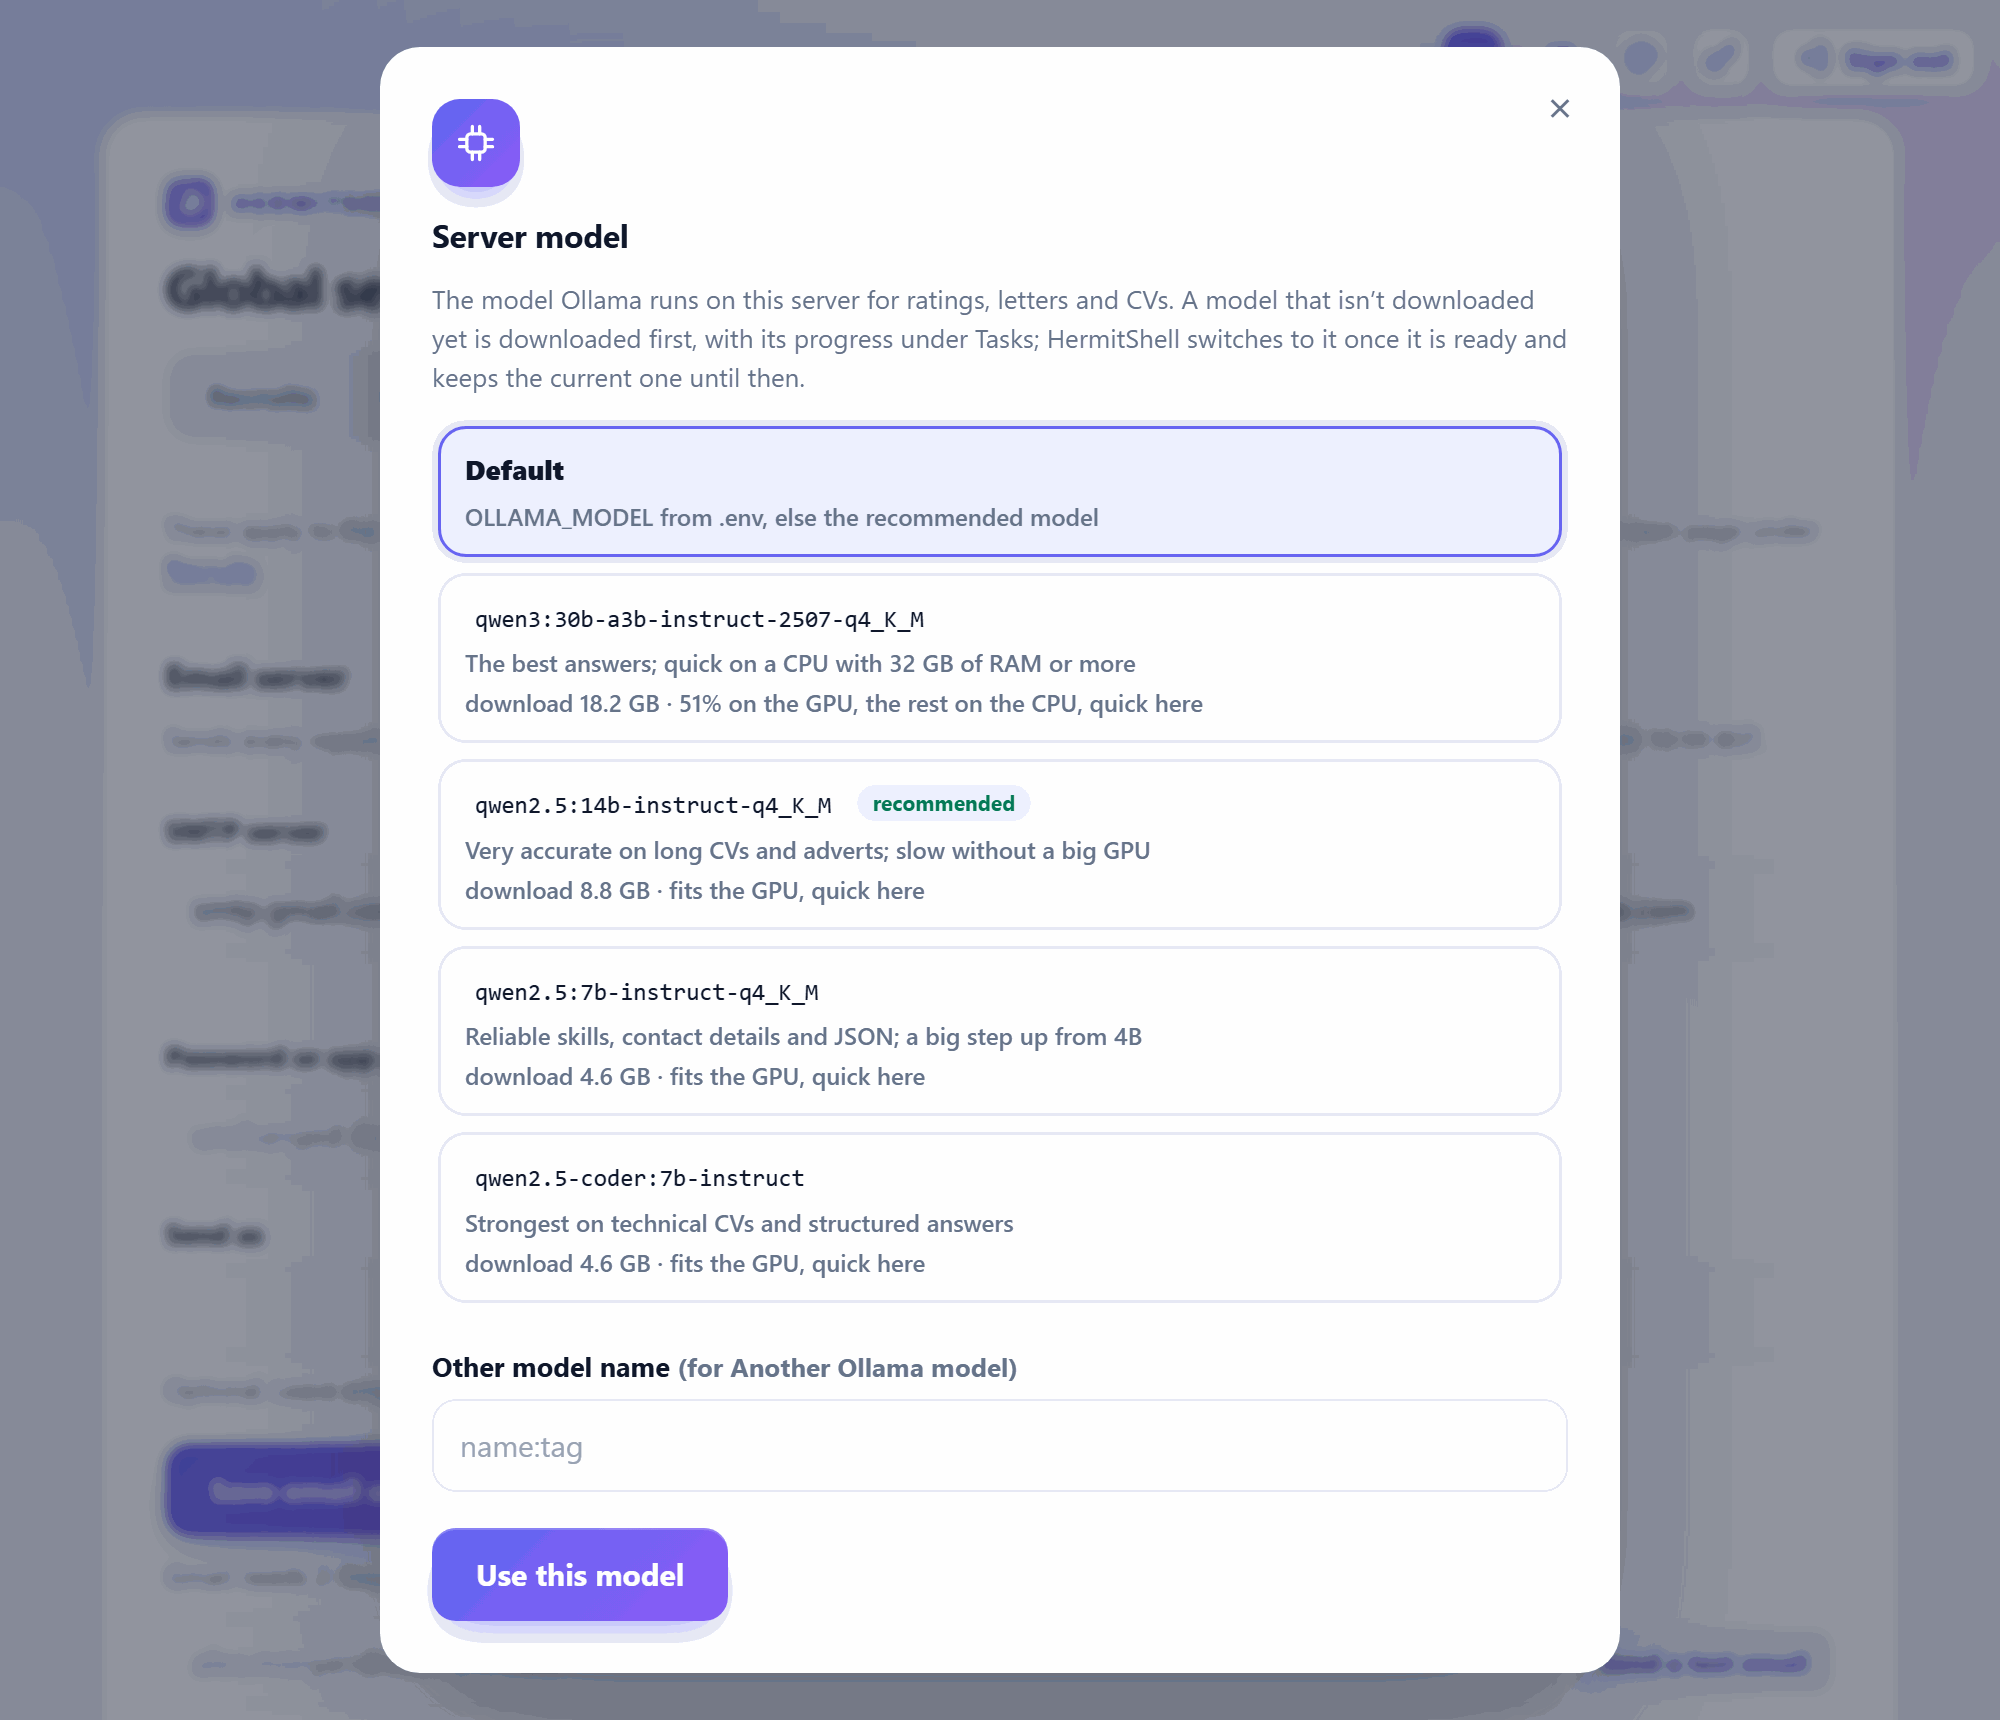
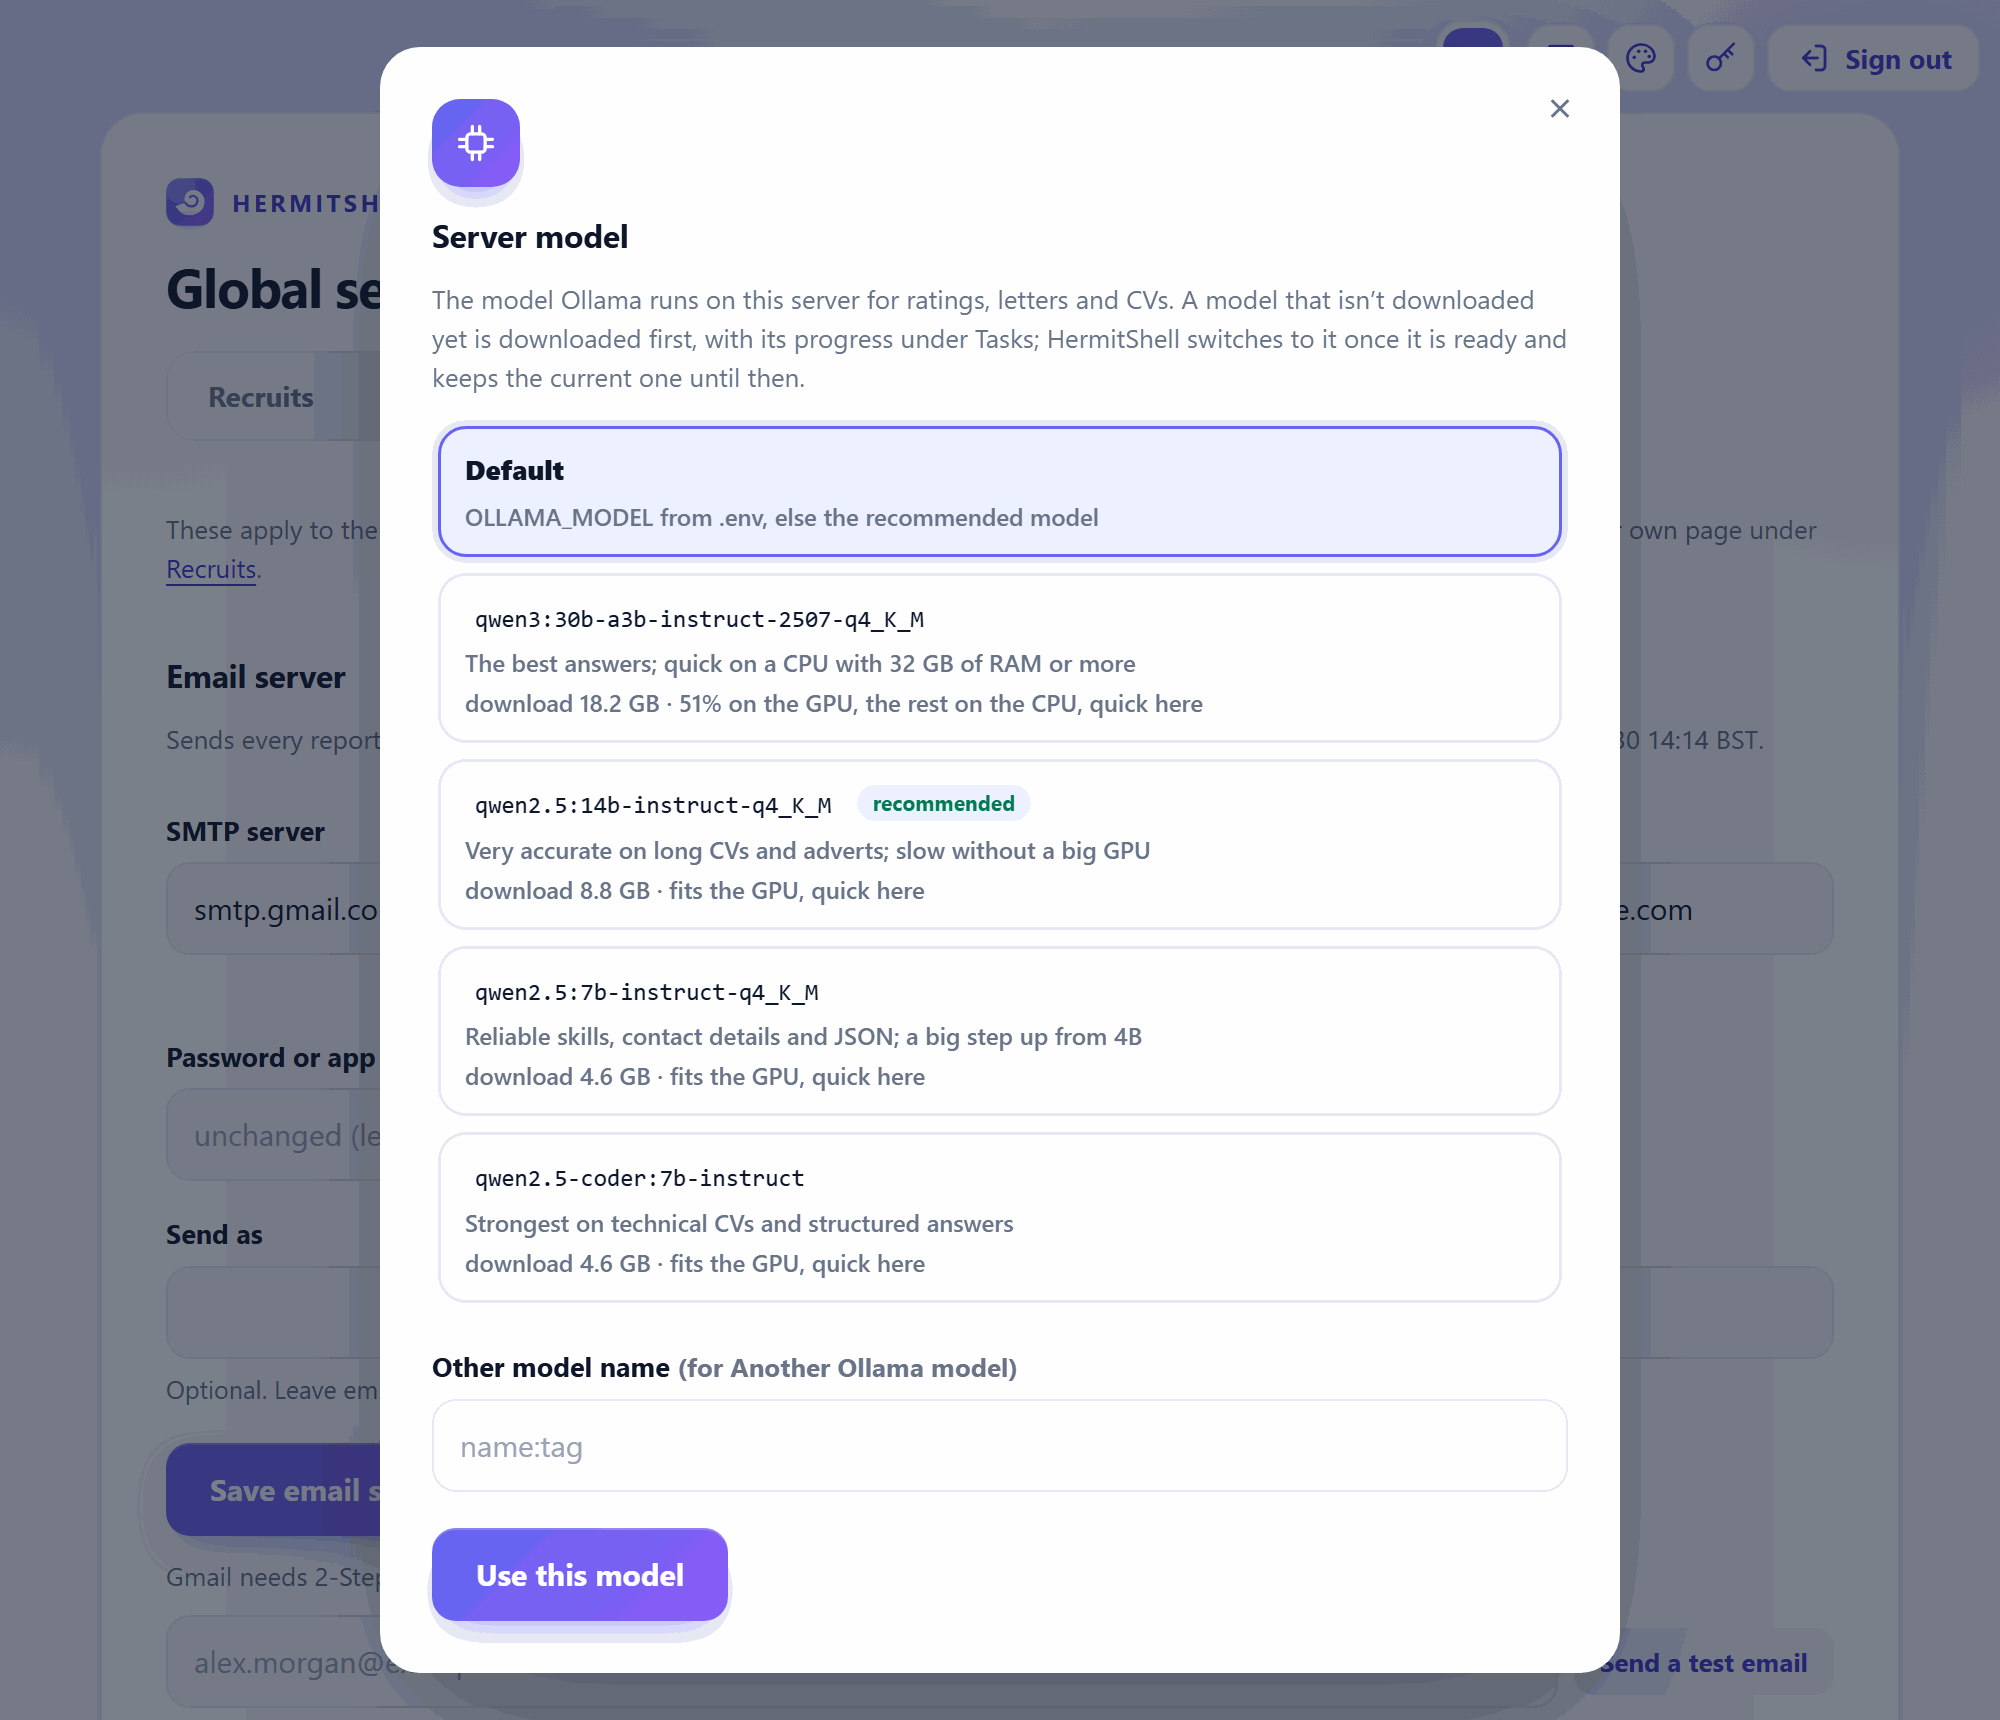
Keep the dashboard smooth while Tasks or any window is open
The window backdrop blurred the whole page and the browser redrew the blur on
every frame while the dashboard kept animating underneath, dropping it to about
26 fps with 80 ms stalls. The backdrop is now a plain darker tint, everything
behind an open window pauses its animations until it closes (the window's own
keep running), task bars shimmer by moving a layer instead of repainting their
gradient, and the spinners get their own layer. An open window now holds 60 fps.

Tests: vitest checks the CSS (no blur, pause and resume rules, transform-only
shimmer); a Playwright test checks the page behind pauses, isn't blurred and
resumes on closing. Docs, changelog and the window screenshots updated.

Changed region(s): [[0.372, 0.0, 1.0, 1.0], [0.0, 0.0616, 0.279, 1.0]]

diff --git a/packages/daily-vacancy-report/feedback-worker/src/tasks.js b/packages/daily-vacancy-report/feedback-worker/src/tasks.js
@@ -262,7 +262,7 @@ transition:transform .2s var(--ease),background .2s,box-shadow .2s}
 .tasksbtn.busy .tring::before{content:"";position:absolute;inset:0;border-radius:50%;
 background:conic-gradient(from 0deg,rgba(139,92,246,0) 0deg,rgba(139,92,246,.15) 90deg,var(--brand2) 250deg,var(--brand) 350deg,rgba(99,102,241,0) 360deg),#dfe2fb;
 -webkit-mask:radial-gradient(farthest-side,transparent calc(100% - 3px),#000 calc(100% - 2.5px));
-mask:radial-gradient(farthest-side,transparent calc(100% - 3px),#000 calc(100% - 2.5px));animation:tspin 1s linear infinite}
+mask:radial-gradient(farthest-side,transparent calc(100% - 3px),#000 calc(100% - 2.5px));animation:tspin 1s linear infinite;will-change:transform}
 .tcount{position:absolute;top:-7px;right:-7px;min-width:20px;height:20px;padding:0 6px;box-sizing:border-box;border-radius:99px;
 display:grid;place-items:center;font-size:11.5px;font-weight:800;color:#fff;background:linear-gradient(135deg,#f97316,#ef4444);
 border:2px solid #fff;box-shadow:0 4px 10px -4px rgba(239,68,68,.9);animation:tpop .35s var(--ease) both}
@@ -287,7 +287,7 @@ animation:tin .3s cubic-bezier(.2,.8,.2,1) both}
 mask:radial-gradient(farthest-side,transparent calc(100% - 3px),#000 calc(100% - 2.5px))}
 .s-running .ticon::before{background:#e6e8fb}
 .s-running .ticon::after{background:conic-gradient(from 0deg,rgba(139,92,246,0) 0deg,rgba(139,92,246,.15) 90deg,#8b5cf6 250deg,#6366f1 350deg,rgba(99,102,241,0) 360deg);
-animation:tspin 1s linear infinite;animation-delay:var(--spin,0s)}
+animation:tspin 1s linear infinite;animation-delay:var(--spin,0s);will-change:transform}
 .s-waiting .ticon{color:#64748b;background:#f1f5f9}.s-waiting .ticon svg{animation:ttick 2s steps(8) infinite}
 .s-stopping .ticon{color:#b91c1c;background:#fee2e2}
 .tbody{flex:1;min-width:0}
@@ -298,8 +298,10 @@ animation:tspin 1s linear infinite;animation-delay:var(--spin,0s)}
 .ttitle{font-size:13px;color:#334155;white-space:nowrap;overflow:hidden;text-overflow:ellipsis}
 .tsub{font-size:12.5px;color:#64748b;margin-top:1px}
 .bar{height:6px;margin-top:7px;border-radius:99px;background:#e9ecf5;overflow:hidden}
-.bar i{display:block;height:100%;border-radius:99px;background:linear-gradient(90deg,#6366f1,#8b5cf6,#6366f1) 0 0/200% 100%;
-animation:tflow 1.6s linear infinite;transition:width .6s}
+.bar i{position:relative;display:block;height:100%;border-radius:99px;overflow:hidden;background:linear-gradient(90deg,#6366f1,#8b5cf6);
+transition:width .6s}
+.bar i::after{content:"";position:absolute;inset:0;background:linear-gradient(90deg,transparent,rgba(255,255,255,.35),transparent);
+transform:translateX(-100%);animation:tflow 1.6s linear infinite;will-change:transform}
 .bar.est i{opacity:.75}
 .bar.indet i{width:35%;animation:tslide 1.3s ease-in-out infinite}
 form{margin:0}
@@ -312,7 +314,7 @@ background:#fff;cursor:pointer;transition:background .15s}
 .tpaused{margin:10px 2px 0;font-size:12.5px;color:#64748b}.tpaused a{color:#4f46e5}
 @keyframes tspin{to{transform:rotate(360deg)}}
 @keyframes ttick{to{transform:rotate(360deg)}}
-@keyframes tflow{to{background-position:-200% 0}}
+@keyframes tflow{to{transform:translateX(100%)}}
 @keyframes tslide{0%{transform:translateX(-100%)}100%{transform:translateX(300%)}}
 @keyframes tin{from{opacity:0;transform:translateY(4px)}}
 @media (prefers-reduced-motion:reduce){*{animation:none!important;transition:none!important}}

diff --git a/packages/daily-vacancy-report/feedback-worker/e2e/models.spec.js b/packages/daily-vacancy-report/feedback-worker/e2e/models.spec.js
@@ -133,6 +133,31 @@ test("a new server model is picked, then its download shows on the dashboard and
   await expect(page.locator(".mnotice.ok")).toContainText("qwen2.5:7b-instruct-q4_K_M is downloaded and is now the server model");
 });
 
+test("while Tasks is open the dashboard behind it pauses and is not blurred, and starts again once it closes", async ({ page, request }) => {
+  const status = hermitShellStatus();
+  const pull = { model: "qwen2.5:7b-instruct-q4_K_M", status: "downloading", done_mb: 1200, total_mb: 4700, started: Date.now() - 60000,
+    finished: null, error: "", switch: true, stopping: false };
+  await reportStatus(request, { ...status, llm: { ...status.llm, local: { ...status.llm.local, pull } },
+    tasks: [{ id: "model:pull", kind: "model", u: "", state: "running", at: pull.started, trigger: "dashboard", title: pull.model,
+      stage: "Downloading", done: 1200, total: 4700 }, { id: "report:owner", kind: "report", u: "owner", state: "running",
+      at: Date.now() - 30000, trigger: "schedule", stage: "Rating jobs", done: 12, total: 40 }] });
+  await signIn(page);
+  await page.goto("/admin");
+  const ring = page.locator(".tasksbtn.busy .tring");
+  const state = (loc, pseudo) => loc.evaluate((el, p) => getComputedStyle(el, p).animationPlayState, pseudo);
+  await expect.poll(() => state(ring, "::before")).toBe("running");
+  await page.locator(".tasksbtn").click();
+  await expect(page.locator("#tasks")).toBeVisible();
+  await expect.poll(() => state(ring, "::before")).toBe("paused");
+  expect(await page.locator("#tasks .scrim").evaluate((el) => getComputedStyle(el).backdropFilter)).toBe("none");
+  await expect.poll(() => state(page.locator("#tasks .sheeticon svg").first())).toBe("running");
+  const bar = page.frameLocator("iframe.tasksframe").locator(".task.k-report .bar i");
+  await expect(bar).toBeVisible();
+  expect(await bar.evaluate((el) => getComputedStyle(el, "::after").animationName)).toBe("tflow");
+  await page.goto("/admin#");
+  await expect.poll(() => state(ring, "::before")).toBe("running");
+});
+
 test("a bad model name is refused with a message", async ({ page }) => {
   await signIn(page);
   await page.goto("/admin/settings#mkey-openrouter");

diff --git a/packages/daily-vacancy-report/feedback-worker/test/tasks.test.js b/packages/daily-vacancy-report/feedback-worker/test/tasks.test.js
@@ -60,6 +60,21 @@ describe("the Tasks button", () => {
     expect(res.headers.get("Content-Security-Policy")).toContain("frame-ancestors 'none'");
   });
 
+  it("keeps the open modal smooth: no blur behind it, the page behind pauses, and its bars only move a layer", async () => {
+    const { get } = await setup([REPORT, LETTER]);
+    const page = await (await get()).text();
+    const css = await (await get(page.match(/<link rel="stylesheet" href="([^"]+)"/)[1])).text();
+    expect(page + css).not.toContain("backdrop-filter");
+    expect(css).toContain("body:has(.modal:target) *::after{animation-play-state:paused!important}");
+    expect(css).toContain("body:has(.modal:target) .modal:target *::after{animation-play-state:running!important}");
+    expect(page).toMatch(/\.tring::before\{[^}]*will-change:transform/);
+    const frame = await (await get("/admin/tasks")).text();
+    expect(frame).toMatch(/class="bar[ "]/);
+    expect(frame).toContain("@keyframes tflow{to{transform:translateX(100%)}}");
+    expect(frame).not.toContain("background-position");
+    expect(frame).toMatch(/\.s-running \.ticon::after\{[^}]*will-change:transform/);
+  });
+
   it("is there with no tasks and no profiles yet", async () => {
     const { get } = await setup([], []);
     const body = await (await get()).text();

diff --git a/packages/daily-vacancy-report/feedback-worker/src/lib.js b/packages/daily-vacancy-report/feedback-worker/src/lib.js
@@ -227,7 +227,10 @@ body::after{top:-420px;right:-400px;background:radial-gradient(closest-side,rgba
 animation-duration:32s;animation-direction:alternate-reverse}
 main{max-width:480px;margin:56px auto;background:rgba(255,255,255,.94);border:1px solid rgba(226,232,240,.9);border-radius:22px;padding:32px;
 box-shadow:0 1px 2px rgba(15,23,42,.04),0 18px 50px -18px rgba(30,27,75,.18)}
-body:has(.modal:target)::before,body:has(.modal:target)::after{animation-play-state:paused}
+body:has(.modal:target)::before,body:has(.modal:target)::after,body:has(.modal:target) *,body:has(.modal:target) *::before,
+body:has(.modal:target) *::after{animation-play-state:paused!important}
+body:has(.modal:target) .modal:target,body:has(.modal:target) .modal:target *,body:has(.modal:target) .modal:target *::before,
+body:has(.modal:target) .modal:target *::after{animation-play-state:running!important}
 main.wide{max-width:900px}
 main.full{max-width:min(1320px,calc(100vw - 48px))}
 .eyebrow{display:flex;align-items:center;gap:9px;font-size:12px;letter-spacing:.14em;text-transform:uppercase;font-weight:750;

diff --git a/packages/daily-vacancy-report/feedback-worker/src/keys.js b/packages/daily-vacancy-report/feedback-worker/src/keys.js
@@ -156,7 +156,7 @@ text-decoration:none;color:var(--brand-ink);background:var(--soft);border:1px da
 .addkey:hover{background:#e2e5ff;transform:translateY(-1px)}.addkey svg{width:16px;height:16px}
 .modal{display:none;position:fixed;inset:0;z-index:50;place-items:center;padding:16px}
 .modal:target{display:grid}
-.scrim{position:absolute;inset:0;background:rgba(15,23,42,.45);backdrop-filter:blur(3px);animation:fade .2s ease both}
+.scrim{position:absolute;inset:0;background:rgba(15,23,42,.55);animation:fade .2s ease both}
 .sheet{position:relative;width:100%;max-width:420px;max-height:calc(100vh - 32px);overflow:auto;box-sizing:border-box;background:#fff;
 border-radius:20px;padding:26px;box-shadow:0 30px 80px -20px rgba(15,23,42,.45);animation:modalin .28s var(--ease) both}
 .sheet h2{margin:12px 0 2px}.sheet form{margin:0}

diff --git a/CHANGELOG.md b/CHANGELOG.md
@@ -1204,6 +1204,14 @@ using [Semantic Versioning](https://semver.org/).
 
 ### Performance
 
+- **The dashboard no longer lags while Tasks (or any window) is open.** The dimmed backdrop behind a
+  window blurred the whole page, and the browser redrew that blur on every frame while the dashboard kept
+  animating underneath (the Tasks button's circle, scanning rows, a model download bar), which dropped it to
+  about 26 frames a second with stalls of over 80 ms. The backdrop is now a plain darker tint, everything
+  behind an open window stops animating until it closes (the window's own animations keep going), and the
+  bars in the task list shimmer by moving a layer instead of repainting their gradient, so a window holds
+  60 frames a second. Covered by `test/tasks.test.js` and a browser test in `e2e/models.spec.js` that the
+  page behind pauses, isn't blurred and starts again on closing.
 - Job rating prompts put the CV, feedback and rubric first and the listing last, so Ollama can
   reuse the cached prompt prefix between jobs.
 - Jobs whose page shows a salary below the minimum or a closing date in the past are dropped

diff --git a/docs/feedback-worker.md b/docs/feedback-worker.md
@@ -1027,8 +1027,10 @@ it is older than HermitShell; nothing else changes.
 The **Tasks** button next to the search (admins only) shows a loading circle while something is running
 and, in its corner, how many tasks there are. It opens a window listing everything HermitShell is doing or has
 waiting, whoever started it. Each running task has the same circle round its icon, and it keeps
-turning smoothly as the list refreshes. Where scripts run, the button's count follows the list each time
-it refreshes, so it clears as soon as the last task finishes rather than on the next page load:
+turning smoothly as the list refreshes. While this or any other window is open, the dashboard behind it
+is dimmed (not blurred) and stops animating, so the window stays smooth however busy the page is. Where
+scripts run, the button's count follows the list each time it refreshes, so it clears as soon as the last
+task finishes rather than on the next page load:
 
 <img src="images/worker/admin-tasks.png" alt="The Tasks window with a running report, a cover letter being written and requests waiting" width="720">
 
